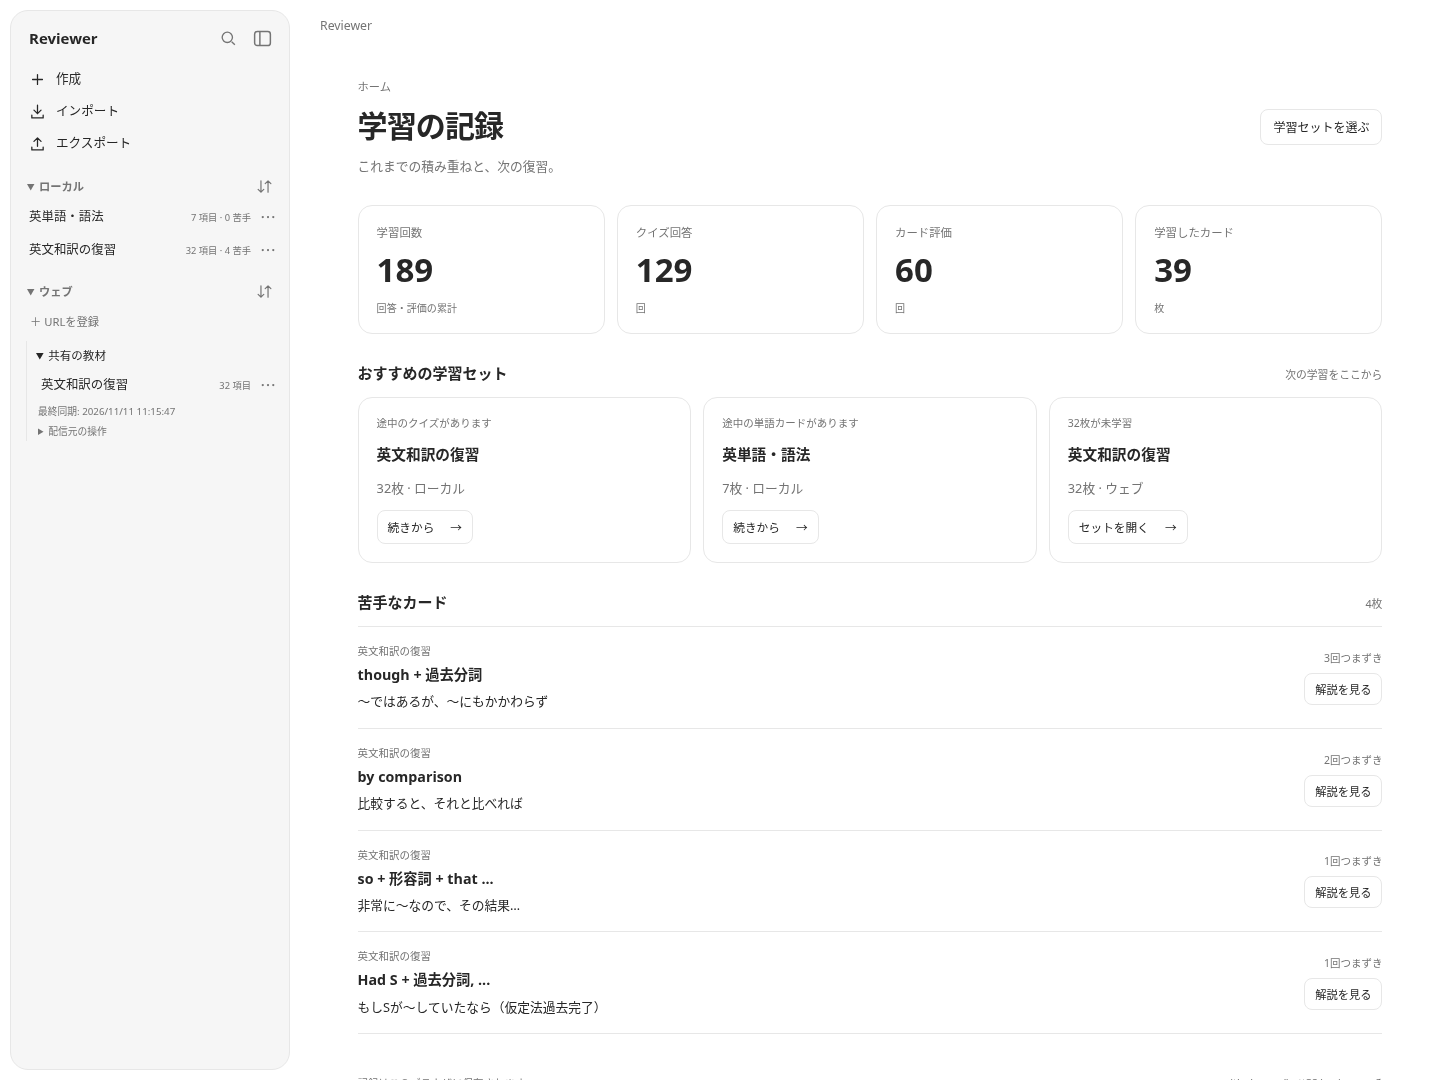
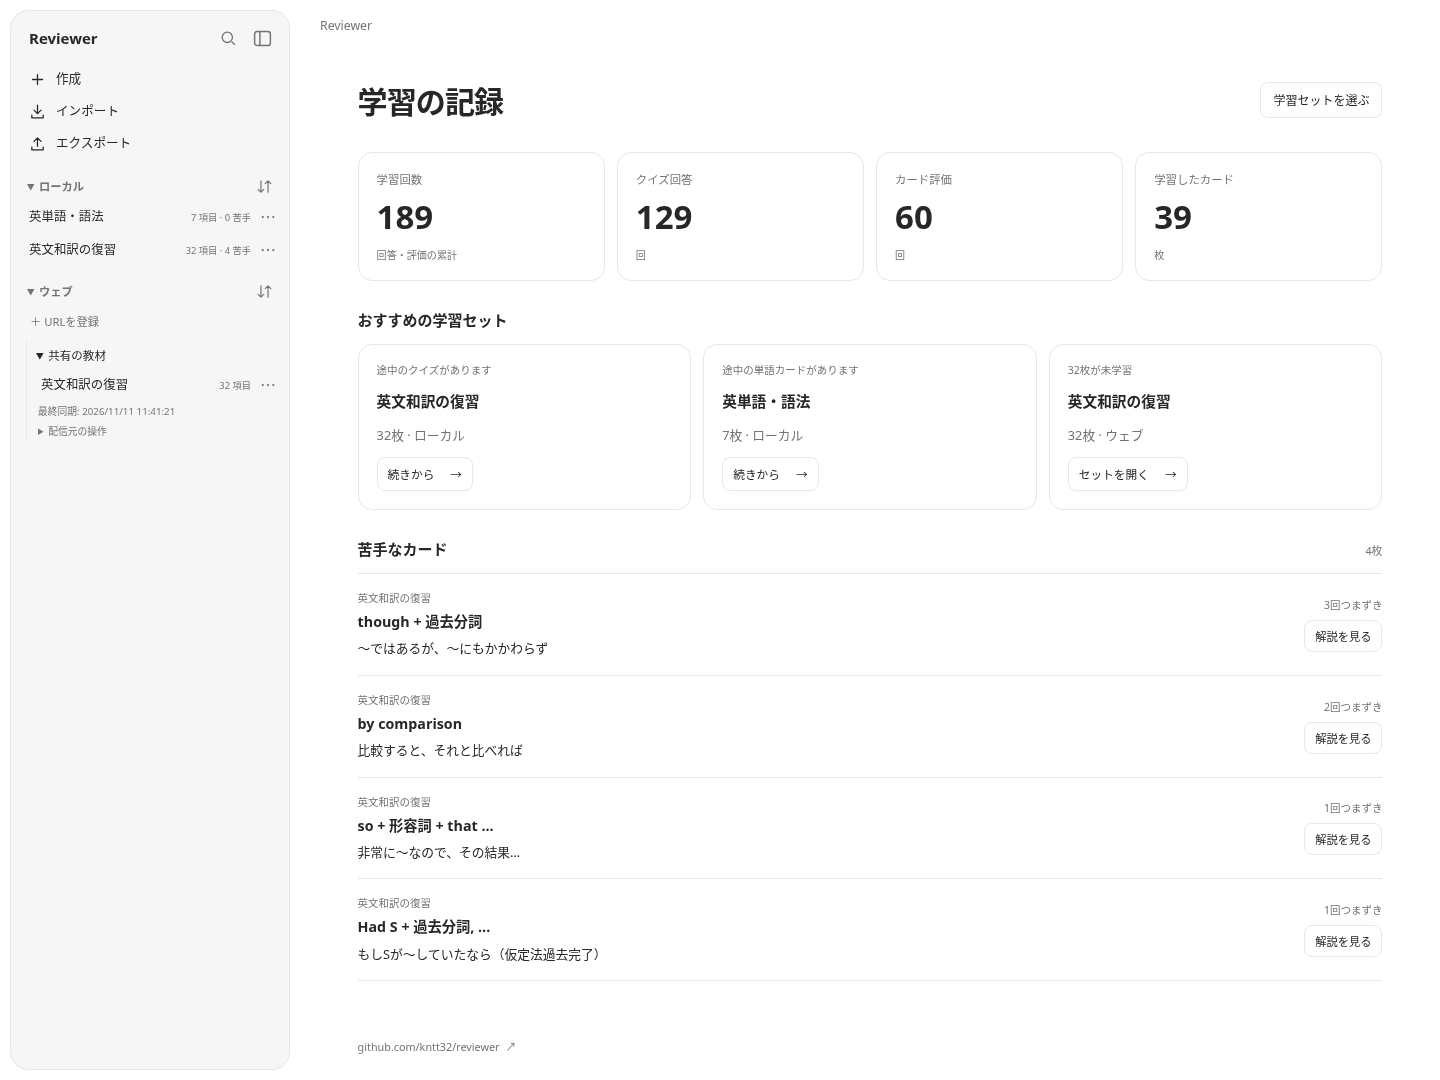
Refresh screenshots for the simplified dashboard

diff --git a/docs/development.md b/docs/development.md
@@ -98,7 +98,7 @@ PC・タブレット幅では左300pxの領域に、画面端から10px離した
 
 ### ホームの学習ダッシュボード
 
-保存済みの `state.progress` を集計し、回答・評価の累計、クイズ回答回数、カード評価回数、一度でも学習したカード枚数を表示します。`grade()` は既存の `attempts` に加え、クイズでは `quizAttempts`、カードでは `cardAttempts` を増やします。以前の内訳がない履歴は合計に含め、画面に注記します。保存キーや既存IDは変えません。集計は保存されている履歴に基づくため、履歴の削除・初期化に合わせて変化します。
+保存済みの `state.progress` を集計し、回答・評価の累計、クイズ回答回数、カード評価回数、一度でも学習したカード枚数を表示します。`grade()` は既存の `attempts` に加え、クイズでは `quizAttempts`、カードでは `cardAttempts` を増やします。以前の内訳がない履歴も合計に含めます。保存キーや既存IDは変えません。集計は保存されている履歴に基づくため、履歴の削除・初期化に合わせて変化します。
 
 `dashboardData()` は途中の学習、苦手、復習期限、未学習の順にセットを並べ、上位3件を提案します。空のセットは除外します。苦手なカードは従来の苦手判定に合わせ、つまずき回数・正答率で並べて最大6枚を表示します。解説を開く操作では既存のセット・解説ダイアログを利用し、途中の学習を初期化しません。
 
